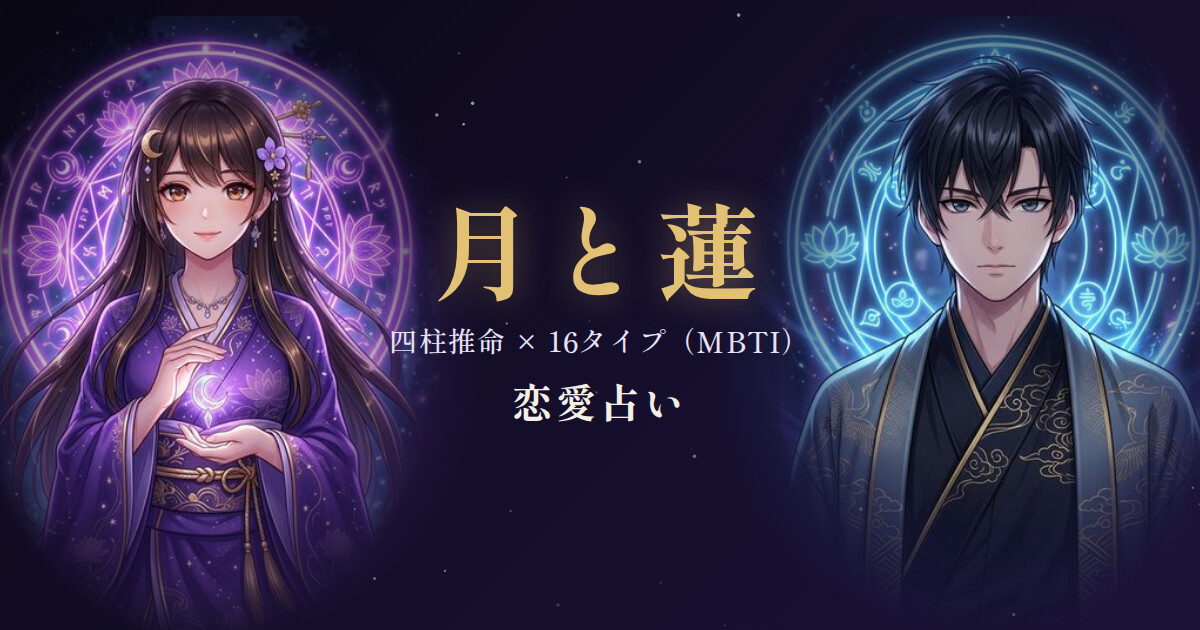
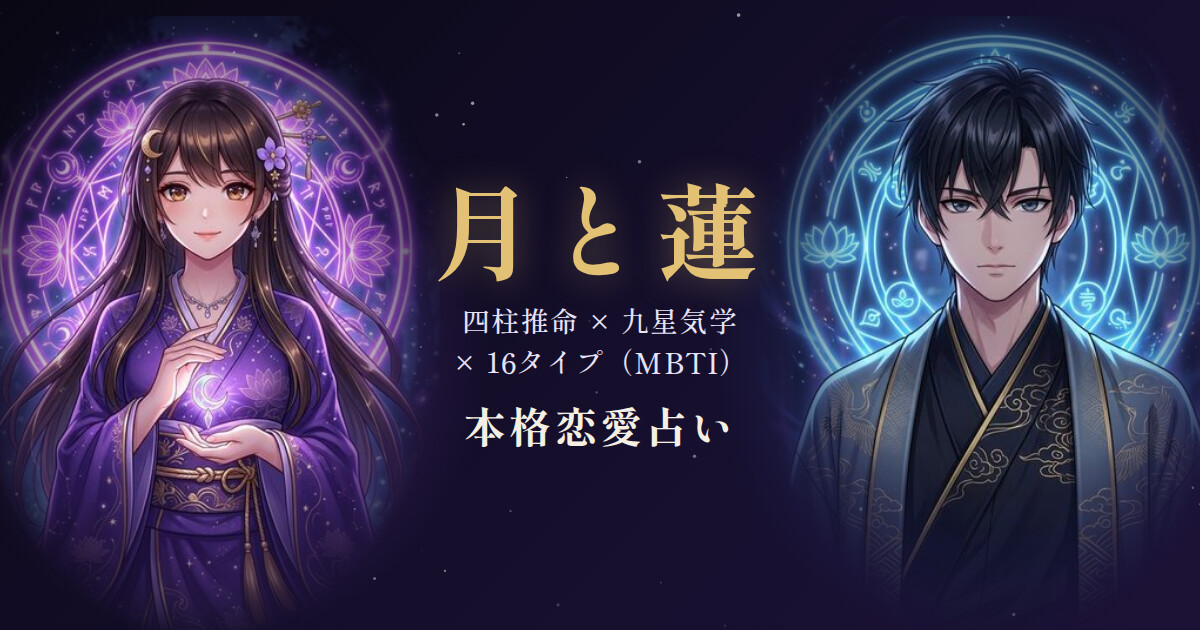
feat(brand): OGP says 本格恋愛占い with 九星気学; apply OGP to public, update X header, profile copy and draft prompt
Claude-Session: https://claude.ai/code/session_015Rm6JNoM1KWYuujVjuZpEG

Changed region(s): [[0.3083, 0.2714, 0.6475, 0.7238]]

diff --git a/docs/x-profile/header.html b/docs/x-profile/header.html
@@ -12,11 +12,11 @@ svg{position:absolute;inset:0}
  -webkit-mask-image:radial-gradient(ellipse 52% 56% at 50% 46%,#000 55%,transparent 100%);mask-image:radial-gradient(ellipse 52% 56% at 50% 46%,#000 55%,transparent 100%)}
 .c img{width:372px;height:500px;display:block}
 .tsuki{left:262px}.ren{left:866px}
-.t{position:absolute;left:564px;top:150px;width:400px;text-align:center}
+.t{position:absolute;left:564px;top:125px;width:400px;text-align:center}
 .badge{display:inline-block;font-weight:500;font-size:20px;letter-spacing:.12em;color:#e2c074;border:1.5px solid rgba(226,192,116,.6);border-radius:999px;padding:6px 20px;background:rgba(10,10,20,.5)}
 .t1{margin-top:18px;font-weight:700;font-size:50px;letter-spacing:.03em;line-height:1.25;text-shadow:0 0 26px rgba(226,192,116,.4)}
 .t1 b{color:#e2c074;font-weight:700}
-.t2{margin-top:16px;font-weight:500;font-size:22px;letter-spacing:.04em;color:#e8e2f7}
+.t2{margin-top:14px;font-weight:500;font-size:22px;letter-spacing:.04em;line-height:1.4;color:#e8e2f7}
 </style>
 <div class="h">
 <svg width="1500" height="500" id="st"></svg>
@@ -25,7 +25,7 @@ svg{position:absolute;inset:0}
 <div class="t">
  <div class="badge">月と蓮 運営</div>
  <div class="t1">今日の空気を、<br><b>そっと。</b></div>
- <div class="t2">四柱推命 × 16タイプ（MBTI）</div>
+ <div class="t2">四柱推命 × 九星気学<br>× 16タイプ（MBTI）</div>
 </div>
 </div>
 <script>

diff --git a/docs/x-profile/ogp/ogp.html b/docs/x-profile/ogp/ogp.html
@@ -12,10 +12,10 @@ svg{position:absolute;inset:0}
  -webkit-mask-image:radial-gradient(ellipse 52% 54% at 50% 46%,#000 55%,transparent 100%);mask-image:radial-gradient(ellipse 52% 54% at 50% 46%,#000 55%,transparent 100%)}
 .c img{width:470px;height:630px;display:block}
 .tsuki{left:-30px}.ren{left:760px}
-.t{position:absolute;left:380px;top:190px;width:440px;text-align:center}
+.t{position:absolute;left:380px;top:170px;width:440px;text-align:center}
 .n{font-weight:700;font-size:104px;letter-spacing:.08em;color:#e2c074;text-shadow:0 0 34px rgba(226,192,116,.4);line-height:1.1}
-.s1{margin-top:16px;font-weight:500;font-size:28px;letter-spacing:.04em;color:#e8e2f7}
-.s2{margin-top:12px;font-weight:700;font-size:40px;letter-spacing:.1em;color:#f4efe2}
+.s1{margin-top:16px;font-weight:500;font-size:28px;letter-spacing:.04em;line-height:1.45;color:#e8e2f7}
+.s2{margin-top:12px;font-weight:700;font-size:42px;letter-spacing:.08em;color:#f4efe2}
 </style>
 <div class="o">
 <svg width="1200" height="630" id="st"></svg>
@@ -23,8 +23,8 @@ svg{position:absolute;inset:0}
 <div class="c ren"><img src="ren.jpg"></div>
 <div class="t">
  <div class="n">月と蓮</div>
- <div class="s1">四柱推命 × 16タイプ（MBTI）</div>
- <div class="s2">恋愛占い</div>
+ <div class="s1">四柱推命 × 九星気学<br>× 16タイプ（MBTI）</div>
+ <div class="s2">本格恋愛占い</div>
 </div>
 </div>
 <script>

diff --git a/docs/x-profile/profile.md b/docs/x-profile/profile.md
@@ -21,15 +21,15 @@
 | 自己紹介 | 下の案 |
 
 ### 自己紹介 案（公開前）
-- **A（おすすめ）**: 月と蓮の運営アカウント🌙（改行）四柱推命×16タイプ（MBTI）の恋愛占い、近日公開予定。毎日「今日の空気」と恋愛運をお届け。※自動投稿／占いは傾向のヒントです
-- **B**: 【月と蓮 運営】四柱推命×16タイプ（MBTI）の恋愛占いを準備中🌙 毎朝・昼・夜に、今日の恋の空気をお届けします（自動投稿）
+- **A（おすすめ）**: 月と蓮の運営アカウント🌙（改行）四柱推命×九星気学×16タイプ（MBTI）の本格恋愛占い、近日公開予定。毎日「今日の空気」と恋愛運をお届け。※自動投稿／占いは傾向のヒントです
+- **B**: 【月と蓮 運営】四柱推命×九星気学×16タイプ（MBTI）の本格恋愛占いを準備中🌙 毎朝・昼・夜に、今日の恋の空気をお届けします（自動投稿）
 
 運営元と自動投稿の明記は、公開前でも消さないこと（第三者を装わない・ステマ防止）。
 
 ### 固定ポスト（公開前・手動で投稿して固定）
 ```
 はじめまして、月と蓮の運営アカウントです🌙
-四柱推命×16タイプ（MBTI）の恋愛占いを、近日公開予定。
+四柱推命×九星気学×16タイプ（MBTI）の本格恋愛占いを、近日公開予定。
 公開までのあいだ、毎日、朝・昼・夜の3回、今日の恋の空気と16タイプのひとことをお届けします（自動投稿です）。
 —月と蓮 運営
 ```
